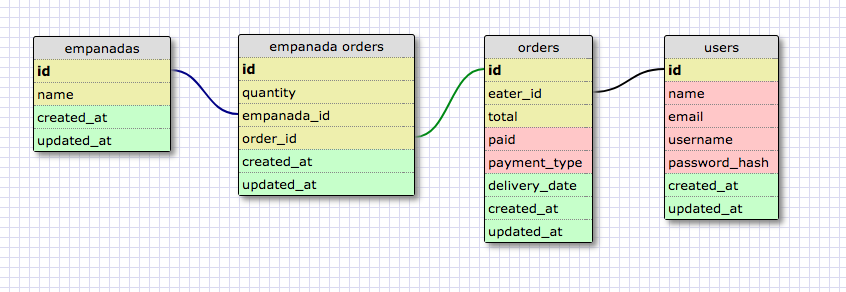
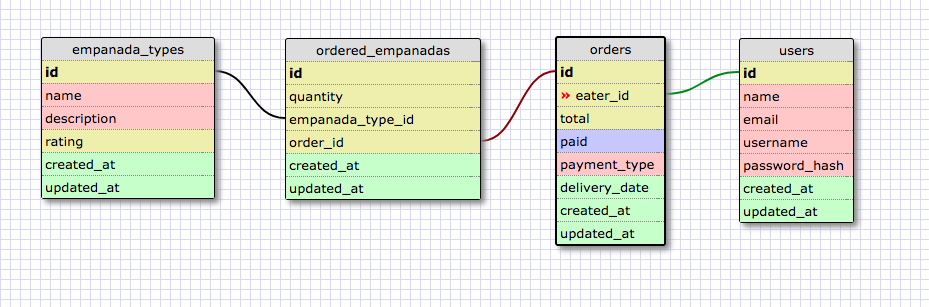
cleaning up

diff --git a/app/models/ordered_empanada.rb b/app/models/ordered_empanada.rb
@@ -1,4 +1,4 @@
-class Empanada < ActiveRecord::Base
+class OrderedEmpanada < ActiveRecord::Base
   belongs_to :empanada_type
   belongs_to :order
   delegate :name, to: :empanada_type

diff --git a/app/controllers/empanada_types.rb b/app/controllers/empanada_types.rb
@@ -1,4 +1,4 @@
 get '/empanadas' do
-  @empanadas = Empanada.all
+  @empanada_types = EmpanadaType.all
   erb :"empanadas/index"
 end
